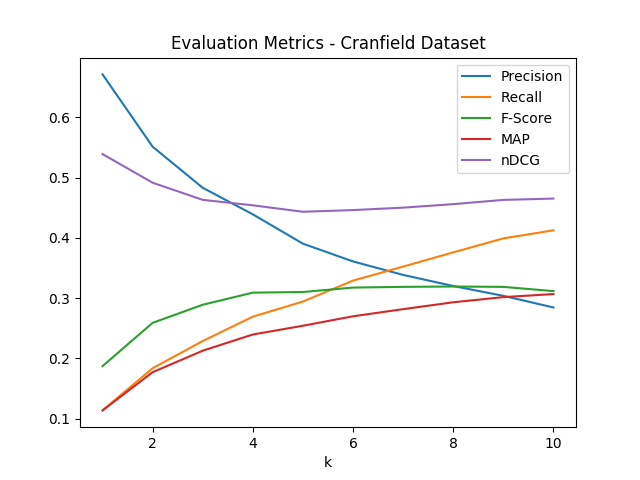
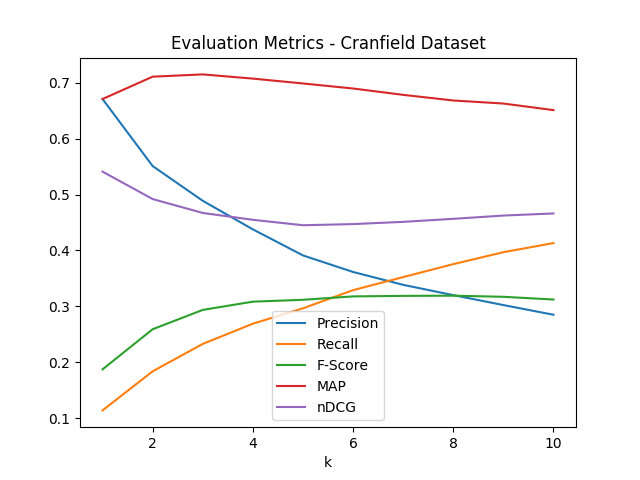
Changed MAP

diff --git a/Assignments/src/evaluation.py b/Assignments/src/evaluation.py
@@ -408,13 +408,18 @@ class Evaluation():
         """
         sum_prec = 0
         prev_rec = 0
+        ct =0
         for i in range(1,k+1):
             rec = self.queryRecall(query_doc_IDs_ordered, query_id, true_doc_IDs,i)
-            sum_prec += self.queryPrecision(
-                query_doc_IDs_ordered, query_id, true_doc_IDs,i)*(rec-prev_rec)
-            prev_rec = rec
+            if rec != prev_rec:
+                sum_prec += self.queryPrecision(
+                    query_doc_IDs_ordered, query_id, true_doc_IDs,i)
+                ct +=1
 
-        avgPrecision = sum_prec
+            prev_rec = rec
+        if ct ==0:
+            return 0
+        avgPrecision = sum_prec/ct
 
         #Fill in code here
 
